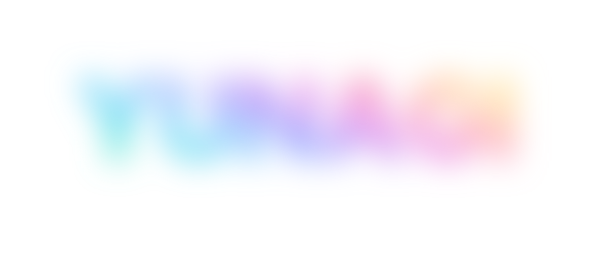
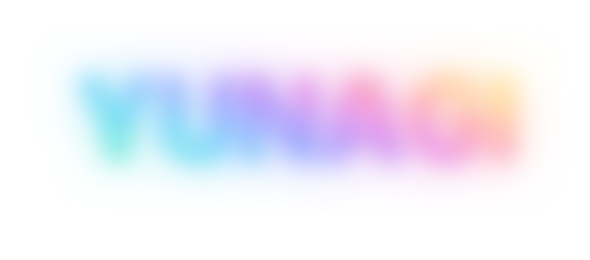
Plymouth: stronger breath, no Esc hint

diff --git a/boot/render.py b/boot/render.py
@@ -78,8 +78,11 @@ for target in ('sddm/yunagi/wordmark.png', 'home/.config/hypr/lock/wordmark.png'
 # Password field for the disk unlock prompt
 write('plymouth/field', 420, 56, '<rect x=".5" y=".5" width="419" height="55" rx="10" fill="#0e0e14" fill-opacity=".9" stroke="#2a2a35"/>')
 # Glow behind the wordmark, breathing at start-up: the wordmark blurred, 60 px of room on every side
+# Two layers: a tight bright one and a wide soft one
 write('plymouth/glow', 590, 260, '<filter id="breath" x="-30%" y="-60%" width="160%" height="220%">'
-      '<feGaussianBlur stdDeviation="16"/></filter>'
-      f'<g filter="url(#breath)"><g transform="translate(60 60)">{WORD_CAPS}</g></g>')
+      '<feGaussianBlur stdDeviation="12"/></filter>'
+      '<filter id="halo" x="-30%" y="-60%" width="160%" height="220%"><feGaussianBlur stdDeviation="26"/></filter>'
+      f'<g filter="url(#halo)"><g transform="translate(60 60)">{WORD_CAPS}</g></g>'
+      f'<g filter="url(#breath)"><g transform="translate(60 60)">{WORD_CAPS}{WORD_CAPS}</g></g>')
 write('plymouth/pulse', 64, 4, '<rect width="64" height="4" rx="2" fill="url(#ion)"/>')
 write('plymouth/track', 64, 4, '<rect width="64" height="4" rx="2" fill="#2c293b"/>')
